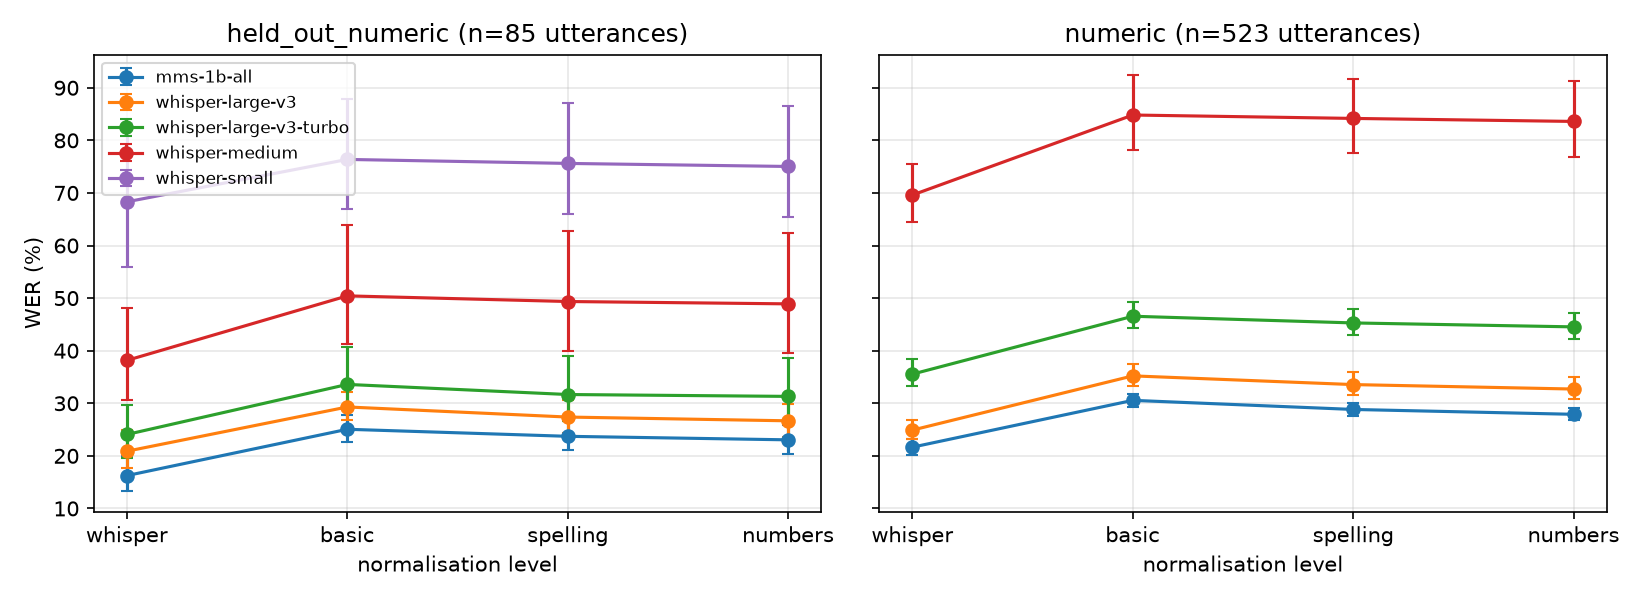
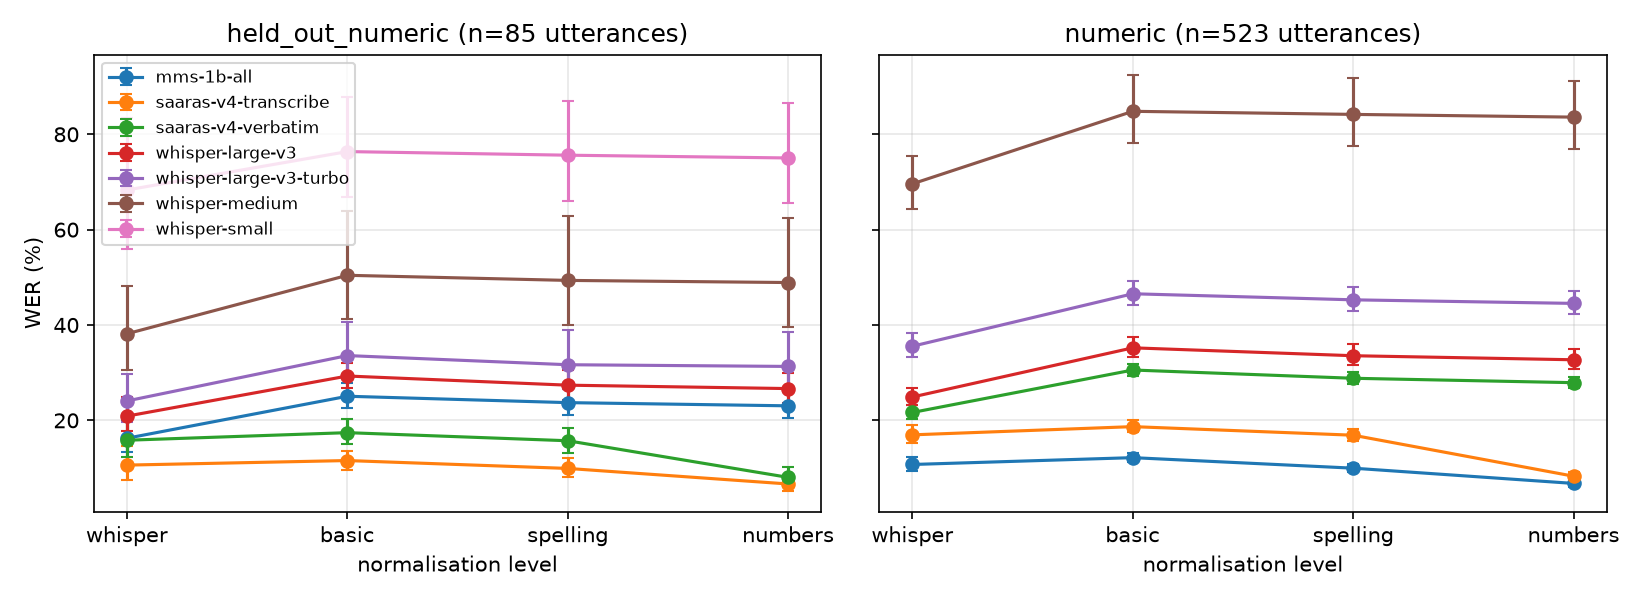
Add RQ1 results with Saaras v4 and update the README

diff --git a/README.md b/README.md
@@ -14,9 +14,9 @@ Hindi speech, with confidence intervals:
 - **RQ2.** Does a TTS-generated test set of the same sentences rank systems the
   way real speech does?
 
-Results so far cover RQ1 and RQ2 for five open models, with one TTS engine
-(MMS-TTS) for RQ2. Sarvam's Saaras is added as it runs; see the
-[research log](#research-log).
+Results so far cover RQ1 for five open models and Sarvam's Saaras v4 in two
+output modes, and RQ2 for the five open models with one TTS engine
+(MMS-TTS); see the [research log](#research-log).
 
 Two terms used throughout: the **numeric value error** is the share of numbers
 written as digits in the reference whose value is missing from the
@@ -27,12 +27,12 @@ cannot be ruled out).
 
 ## Key takeaway
 
-On FLEURS Hindi, with five open ASR systems and 95% cluster-bootstrap
-intervals:
+On FLEURS Hindi, with five open ASR systems, Sarvam's Saaras v4 and 95%
+cluster-bootstrap intervals:
 
 - **WER and the numeric value error disagree about MMS-1B.** On held-out
   utterances with numbers (85 utterances, 135 numbers), MMS-1B has the lowest
-  WER of the five systems (23.1%) but misses 67 of the 135 numbers (49.6%),
+  WER of the five open systems (23.1%) but misses 67 of the 135 numbers (49.6%),
   2.7 times as many as Whisper large-v3 (25, 18.5%). Against both Whisper large
   models the two metrics rank MMS in opposite order, and both differences are
   significant. Forgiving close misspellings of number words (within 0.25
@@ -42,12 +42,20 @@ intervals:
   intervals are wide, but where numbers matter, WER alone would pick the wrong
   one of these two systems.
 - **WER can barely see numbers.** Numbers are 6% of the reference words, so
-  even missing half of them costs MMS at most 3.0 WER points. Normalising
-  spelling and numbers changes WER by only 1 to 3 points.
+  even missing half of them costs MMS at most 3.0 WER points. For the open
+  systems, normalising spelling and numbers changes WER by only 1 to 3 points.
+- **About three quarters of the gap between Saaras v4's two output modes is
+  how numbers are written.** The same model in `verbatim` mode (numbers as spoken words) scores
+  5.9 WER points worse than in `transcribe` mode (numbers as digits) after
+  basic normalisation, but only 1.4 [0.4, 2.4] points worse once numbers are
+  normalised; without numbers the two modes do not differ. Saaras v4 has by
+  far the lowest WER here (6.7% in `transcribe` mode, missing 6 of 135
+  numbers), but whether FLEURS was in its training data is not known.
 - **The stock Whisper normaliser makes Hindi WER look 8 to 12 points lower**
-  for every system on the held-out set (8 to 19 points across all subsets),
-  because it deletes vowel signs and so splits words. It does not change the
-  ranking.
+  for each open system on the held-out set (8 to 19 points across all
+  subsets), because it deletes vowel signs and so splits words. It does not
+  change the ranking. For Saaras the effect is small and not significant
+  (+0.9 [−2.4, +3.5] points from `whisper` to `basic`).
 - **A synthetic test set from MMS-TTS keeps the order of the systems but not
   their error level, and may be harder still on numbers.** On the 49 held-out
   sentences with numbers that MMS-TTS could voice, WER rises by 7 to 12 points
@@ -77,6 +85,8 @@ WER at the `numbers` level.
 <!-- rq1-wer -->
 | system | WER whisper | WER basic | WER spelling | WER numbers | numeric value error | lenient numeric error |
 |---|---|---|---|---|---|---|
+| `saaras-v4-transcribe` | 10.6 [7.5, 14.7] | 11.6 [9.7, 13.6] | 9.9 [8.0, 12.1] | 6.7 [5.2, 8.3] | 4.4 [0.8, 9.1] | 4.4 [0.8, 9.1] |
+| `saaras-v4-verbatim` | 15.8 [12.2, 20.3] | 17.4 [14.9, 20.3] | 15.7 [13.2, 18.5] | 8.0 [6.3, 10.1] | 8.9 [3.2, 15.3] | 8.9 [3.2, 15.3] |
 | `mms-1b-all` | 16.2 [13.4, 20.1] | 25.1 [22.6, 27.9] | 23.7 [21.1, 26.6] | 23.1 [20.4, 25.9] | 49.6 [39.1, 60.1] | 48.1 [37.9, 58.7] |
 | `whisper-large-v3` | 20.9 [17.7, 25.0] | 29.3 [26.8, 32.1] | 27.4 [24.3, 30.6] | 26.7 [23.5, 30.0] | 18.5 [7.8, 29.9] | 17.0 [6.8, 27.8] |
 | `whisper-large-v3-turbo` | 24.1 [19.6, 29.7] | 33.6 [29.0, 40.6] | 31.7 [26.6, 39.0] | 31.3 [26.3, 38.6] | 23.7 [13.3, 35.2] | 23.0 [12.9, 33.8] |
@@ -92,8 +102,8 @@ MMS, so they are not independent.
 <!-- rq1-disagreement -->
 | subset | systems | Kendall tau | reversed, significant | reversed, not significant |
 |---|---|---|---|---|
-| held-out, with numbers | 5 | 0.40 | `whisper-large-v3-turbo` vs `mms-1b-all`, `whisper-large-v3` vs `mms-1b-all` | `whisper-medium` vs `mms-1b-all` |
-| all with numbers (no MMS) | 4 | 1.00 | none | none |
+| held-out, with numbers | 7 | 0.71 | `whisper-large-v3-turbo` vs `mms-1b-all`, `whisper-large-v3` vs `mms-1b-all` | `whisper-medium` vs `mms-1b-all` |
+| all with numbers (no MMS) | 6 | 1.00 | none | none |
 <!-- /rq1-disagreement -->
 
 What drives each system's WER: outputs more than twice as long as the
@@ -104,6 +114,8 @@ error).
 <!-- rq1-diagnostics -->
 | system | WER | outputs over 2× reference length | WER without them | missed numbers | most WER points from numbers |
 |---|---|---|---|---|---|
+| `saaras-v4-transcribe` | 6.7 | 0 | 6.7 | 6 of 135 | 0.3 |
+| `saaras-v4-verbatim` | 8.0 | 0 | 8.0 | 12 of 135 | 0.5 |
 | `mms-1b-all` | 23.1 | 0 | 23.1 | 67 of 135 | 3.0 |
 | `whisper-large-v3` | 26.7 | 0 | 26.7 | 25 of 135 | 1.1 |
 | `whisper-large-v3-turbo` | 31.3 | 1 | 28.8 | 32 of 135 | 1.4 |
@@ -118,6 +130,8 @@ next:
 | system | whisper → basic | basic → spelling | spelling → numbers |
 |---|---|---|---|
 | `mms-1b-all` | +8.8 [+5.5, +11.5] | -1.3 [-1.9, -0.8] | -0.7 [-1.1, -0.3] |
+| `saaras-v4-transcribe` | +0.9 [-2.4, +3.5] | -1.7 [-2.4, -1.0] | -3.3 [-4.7, -2.0] |
+| `saaras-v4-verbatim` | +1.6 [-2.0, +4.5] | -1.7 [-2.5, -1.0] | -7.7 [-9.5, -6.0] |
 | `whisper-large-v3` | +8.4 [+4.7, +11.3] | -1.9 [-3.1, -0.8] | -0.7 [-1.2, -0.3] |
 | `whisper-large-v3-turbo` | +9.5 [+5.5, +13.4] | -1.9 [-3.1, -0.9] | -0.4 [-0.7, -0.1] |
 | `whisper-medium` | +12.3 [+7.3, +17.7] | -1.1 [-1.9, -0.4] | -0.4 [-0.8, -0.1] |
@@ -125,8 +139,33 @@ next:
 <!-- /rq1-steps -->
 
 <!-- rq1-ranks -->
-No pair of systems changes order between any two normalisation levels, in any subset (Kendall tau = 1 throughout).
+Only these rankings change between normalisation levels; in every other subset and pair of levels, no pair of systems changes order.
+
+| subset | levels | systems | Kendall tau | pairs that flip |
+|---|---|---|---|---|
+| without numbers | whisper vs basic | 7 | 0.90 | `saaras-v4-transcribe` vs `saaras-v4-verbatim` |
+| without numbers | whisper vs spelling | 7 | 0.90 | `saaras-v4-transcribe` vs `saaras-v4-verbatim` |
+| without numbers | whisper vs numbers | 7 | 0.90 | `saaras-v4-transcribe` vs `saaras-v4-verbatim` |
 <!-- /rq1-ranks -->
+
+Same model, same audio, two output conventions: WER of Saaras v4 in `verbatim`
+mode (numbers as spoken words) minus `transcribe` mode (numbers as digits),
+in percentage points, at each normalisation level:
+
+<!-- rq1-convention -->
+| level | held-out, with numbers | all with numbers (no MMS) | without numbers |
+|---|---|---|---|
+| `whisper` | +5.2 [+3.6, +7.0] | +6.2 [+5.4, +7.1] | -0.2 [-0.5, +0.1] |
+| `basic` | +5.9 [+3.9, +8.1] | +6.5 [+5.6, +7.5] | +0.1 [-0.5, +0.6] |
+| `spelling` | +5.8 [+3.8, +8.2] | +6.9 [+6.0, +7.9] | +0.3 [-0.0, +0.8] |
+| `numbers` | +1.4 [+0.4, +2.4] | +1.5 [+1.1, +2.0] | +0.3 [-0.0, +0.8] |
+<!-- /rq1-convention -->
+
+At the `numbers` level, 1.4 points remain on held-out utterances. Of the
+numbers that `verbatim` misses and `transcribe` gets, most are years the
+speaker read in English, which `verbatim` writes in Devanagari ("नाइनटीन
+सिक्सटी सेवन" for 1967) and the parser does not yet read; the others are
+non-standard spellings ("तिपन" for तिरेपन, 53).
 
 All utterances with numbers (more data, but MMS is left out because it was
 trained on FLEURS train):
@@ -134,6 +173,8 @@ trained on FLEURS train):
 <!-- rq1-wer-all-numeric -->
 | system | WER whisper | WER basic | WER spelling | WER numbers | numeric value error | lenient numeric error |
 |---|---|---|---|---|---|---|
+| `saaras-v4-transcribe` | 10.7 [9.3, 12.3] | 12.2 [11.3, 13.1] | 10.0 [9.1, 10.9] | 6.8 [6.1, 7.5] | 5.3 [3.4, 7.6] | 5.3 [3.4, 7.6] |
+| `saaras-v4-verbatim` | 17.0 [15.2, 18.9] | 18.7 [17.5, 20.0] | 16.9 [15.7, 18.2] | 8.3 [7.5, 9.2] | 11.6 [8.5, 14.6] | 11.2 [8.2, 14.2] |
 | `whisper-large-v3` | 21.6 [20.3, 23.3] | 30.6 [29.4, 31.8] | 28.8 [27.7, 30.0] | 27.9 [26.8, 29.1] | 16.8 [13.6, 20.2] | 16.2 [13.1, 19.5] |
 | `whisper-large-v3-turbo` | 24.9 [23.2, 26.8] | 35.2 [33.3, 37.6] | 33.6 [31.6, 36.0] | 32.7 [30.8, 35.1] | 27.0 [23.2, 31.2] | 25.6 [22.1, 29.6] |
 | `whisper-medium` | 35.5 [33.2, 38.3] | 46.6 [44.3, 49.3] | 45.3 [43.0, 48.0] | 44.5 [42.2, 47.2] | 31.9 [27.6, 36.5] | 30.6 [26.3, 34.9] |
@@ -287,10 +328,10 @@ scored on it. `numeric` (523) gives tighter intervals for the other systems.
 
 **Systems.** Whisper small, medium, large-v3 and large-v3-turbo, and MMS-1B-all
 with the Hindi adapter, all pinned to a Hugging Face revision in
-[`configs/systems.toml`](configs/systems.toml). Sarvam Saaras v4 in its
-`transcribe` (numbers as digits) and `verbatim` (numbers as spoken) modes is
-configured and will be added once it has run; it isolates the effect of an
-output convention within one model. Whisper is decoded greedily in batches,
+[`configs/systems.toml`](configs/systems.toml). Sarvam Saaras v4
+(`saaras:v4` through Sarvam's API, queried on 6 November 2026 UTC) in its
+`transcribe` (numbers as digits) and `verbatim` (numbers as spoken) modes
+isolates the effect of an output convention within one model. Whisper is decoded greedily in batches,
 with a token limit of 25 tokens per second of the longest clip in the batch.
 <!-- rq1-token-rate -->
 The references need at most 19 tokens per second (99th percentile 16.9) with the openai/whisper-small tokenizer (`asr-audit token-rate`), so the limit only cuts off runaway repetition.
@@ -359,7 +400,12 @@ configured but has not run yet.
 - FLEURS has no speaker ids, so the bootstrap does not model speaker
   dependence and intervals may be slightly narrow.
 - Whisper and Saaras may have seen FLEURS test or dev data; this cannot be
-  ruled out, only flagged.
+  ruled out, only flagged. It matters most for Saaras, whose WER is under a
+  third of the next system's.
+- The number parser reads English number words only in Latin script. Saaras
+  in `verbatim` mode writes numbers spoken in English in Devanagari
+  ("नाइनटीन सिक्सटी सेवन"), so they count as missed, which inflates its
+  numeric value error and part of the remaining convention gap.
 - Saaras is a hosted model that can change without notice; its cached
   transcripts in `results/transcripts/` are the reproducible artifact.
 - RQ2 uses one TTS engine with one speaker (MMS-TTS; seeds vary only the
@@ -372,11 +418,13 @@ configured but has not run yet.
 | Date | Update |
 |---|---|
 | 2026-11-06 | Metrics, number parser and normaliser; FLEURS Hindi set; LangGraph synthesis pipeline and RQ2 analysis. RQ1 results for five open systems: the stock Whisper normaliser lowers Hindi WER by 8 to 12 points, and WER and the numeric value error rank MMS-1B against the Whisper large models in opposite orders. |
-| 2026-11-07 | RQ2 with MMS-TTS, clean and telephony, five open systems: the order of the systems holds, but WER rises by 7 to 12 points for the three strongest systems and their numeric value error by 13 to 24 points. |
+| 2026-11-07 | RQ2 with MMS-TTS, clean and telephony, five open systems: the order of the systems holds, but WER rises by 7 to 12 points for the three strongest systems and their numeric value error by 13 to 24 points. Saaras v4 in `transcribe` and `verbatim` modes on real speech: number normalisation removes about three quarters of the WER gap between the two modes. |
 
 Next:
 
-- Saaras v4 in `transcribe` and `verbatim` modes, on real speech and in RQ2.
+- Saaras v4 on the synthetic sets, so it joins RQ2.
+- Parse English number words written in Devanagari, and years read as pairs
+  ("nineteen sixty-seven").
 - RQ2 with Bulbul as a second TTS engine; an interval for the change in
   numeric value error; listening checks of synthetic number words.
 - Agreement between the numeric value error, an LLM judge in the style of
